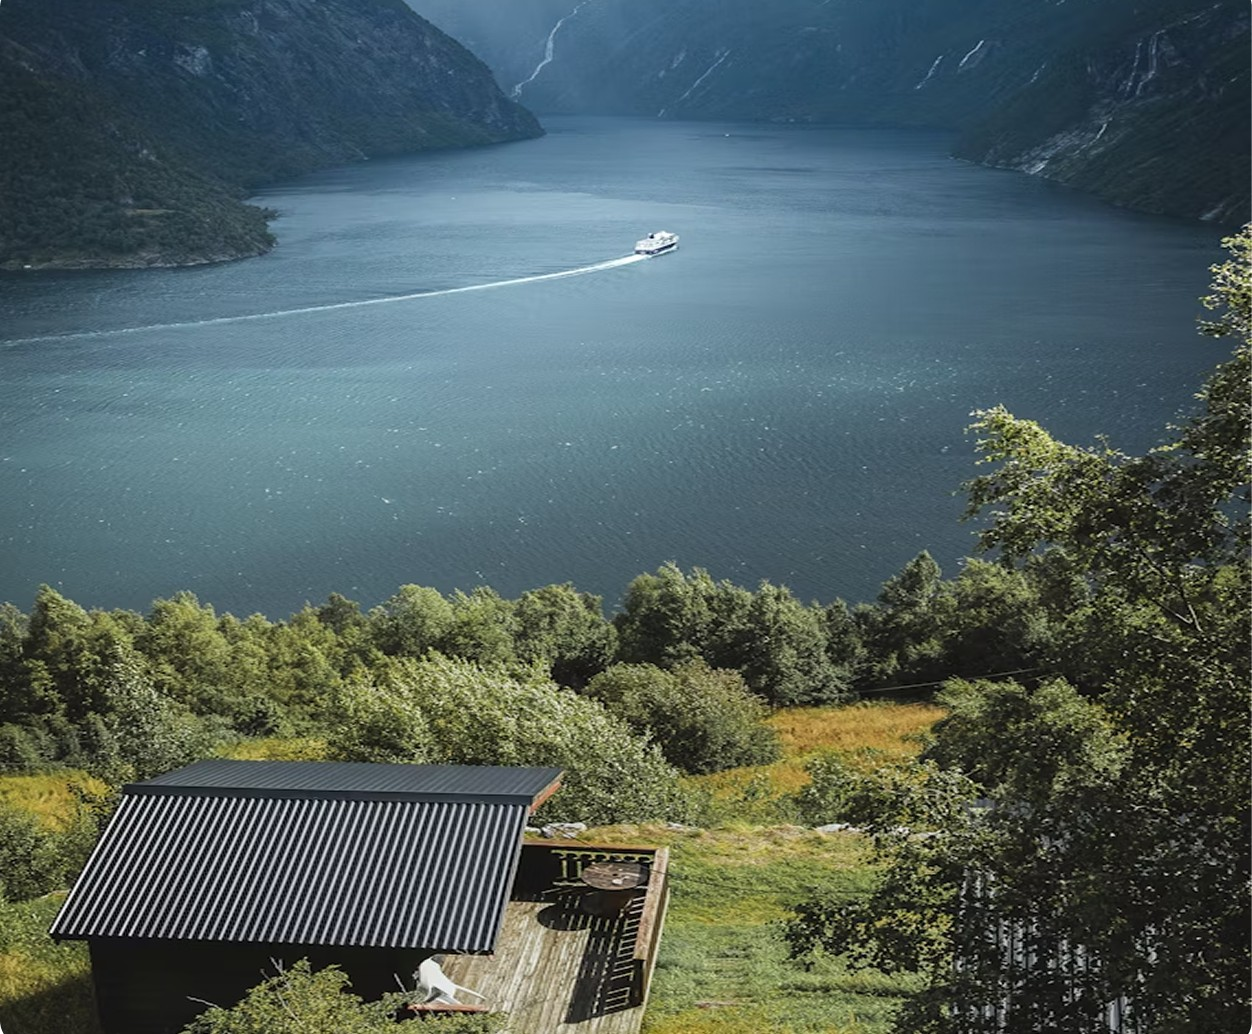
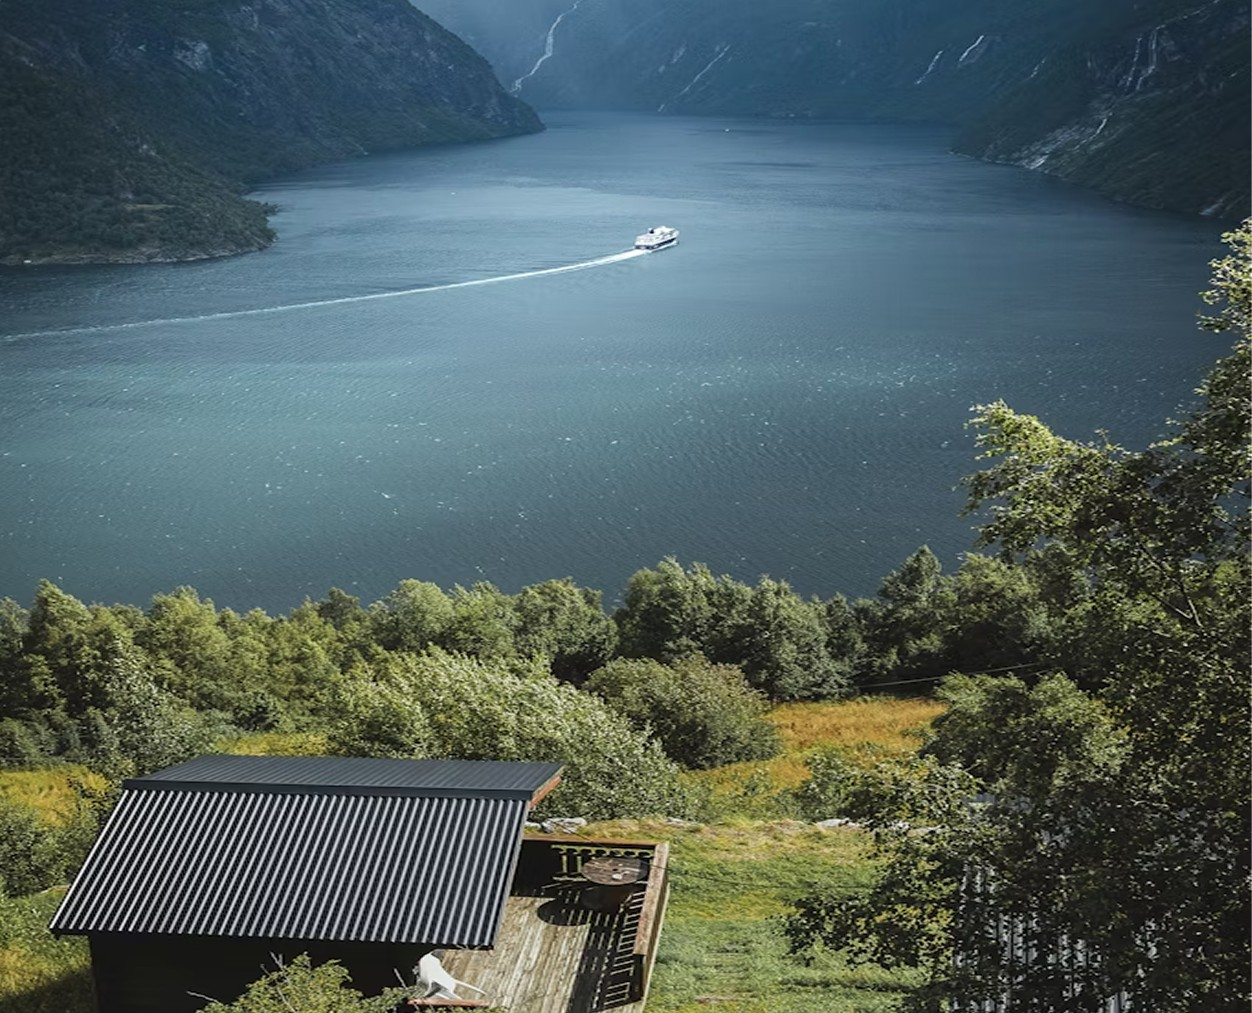
added

diff --git a/src/App.css b/src/App.css
@@ -243,26 +243,22 @@ section {
   margin: 12px 0;
 }
 
-
-
-
-
-
-
 .about-main-img {
   width: 100%;
-  height: 100%;
+  height: 500px;
   display: block;             /* inline gap remove */
   object-fit: cover;
-  border-radius: 12px;        /* thoda andar curve */
+  border-radius: 1px; 
+  box-shadow: 0 10px 25px rgba(0,0,0,0.12);
+  border: 15px solid #fff;
 }
 
 
 
 .about-small-card {
   position: absolute;
-  bottom: 50px;
-  right: -60px;
+  bottom: 20px;
+  right: -70px;
   width: 220px;
   background: white;
   border-radius: 1px;

diff --git a/src/components/DestinationMore.css b/src/components/DestinationMore.css
@@ -139,7 +139,7 @@
   background: #fff;
   border-radius: 1px;
   overflow: hidden;
-  height: 650px; /* same as services */
+  height: 600px; /* same as services */
   display: flex;
   flex-direction: column;
   box-shadow: 0 8px 25px rgba(0,0,0,0.12);

diff --git a/src/components/AboutSection.jsx b/src/components/AboutSection.jsx
@@ -111,7 +111,7 @@ const AboutSection = () => {
           
 <p
   style={{
-    marginBottom: "-90px",
+    marginBottom: "-100px",
     marginRight: "85px",
     paddingTop: "20px",
     paddingLeft: "81px",
